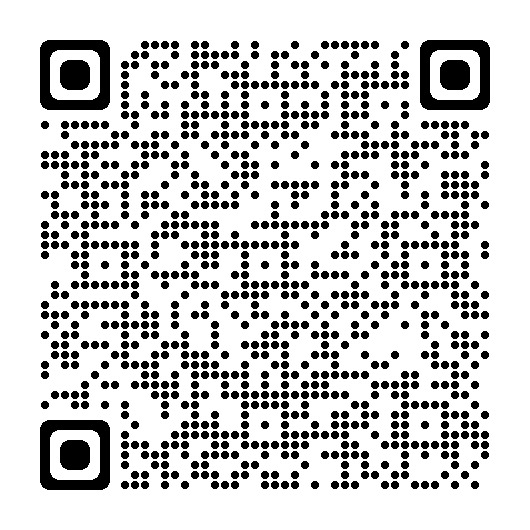
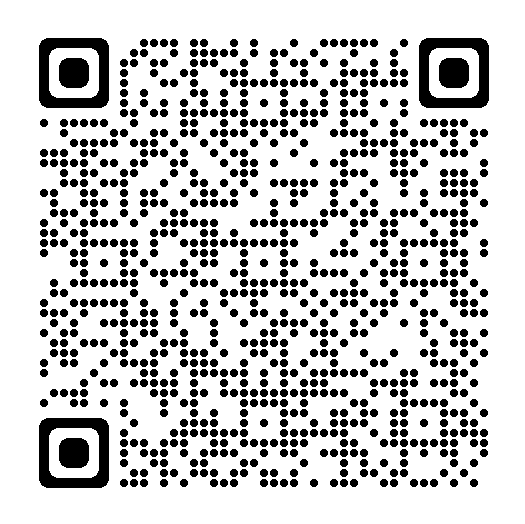
#97-if

Changed region(s): [[0.061, 0.0611, 0.9448, 0.9466], [0.061, 0.0611, 0.2133, 0.1527], [0.061, 0.2137, 0.0914, 0.2443]]

diff --git a/index.html b/index.html
@@ -225,6 +225,22 @@
             </div>
 
             <div class="card-container">
+
+                <div class="card">
+                    <img class="slide-logo" src="images/logos/SwarmLogoNeu.png" alt="Swarm Logo" />
+                    <h3 class="card-title">SWARM IdeaFest - Fund10 -</h3>
+                    <h3 class="card-title">August 12th and 13th - 17:00 UTC</p>
+                        <p class="card-date">This Event is fully about Networking and Connecting Proposers to each
+                            other, to get inisghts and to raise awareness about submitted proposals for Project Catalyst
+                            Fund 10. </p>
+                        <p class="card-date">Want to Present your Proposal? Scan:</p>
+                        <img src="images/qr-codes/ath-if-f10-qr.png" width="33%">
+                        <p class="card-date"><a
+                                href="https://docs.google.com/forms/d/e/1FAIpQLScc0HfQaLt3EppRyIIcdHEE3vzh4Wt6kGk0fDJkSM2hNlJwqg/viewform?usp=sf_link"
+                                target="_blank" rel="noopener noreferrer">or click here</a></p>
+                        <p class="card-twitter">to fill the form</p>
+                </div>
+
                 <div class="card">
                     <img class="slide-logo" src="images/logos/gimbalabs-logo.jpg" alt="Gimbalabs Logo" />
                     <h3 class="card-title">Gimbalabs Carnival</h3>
